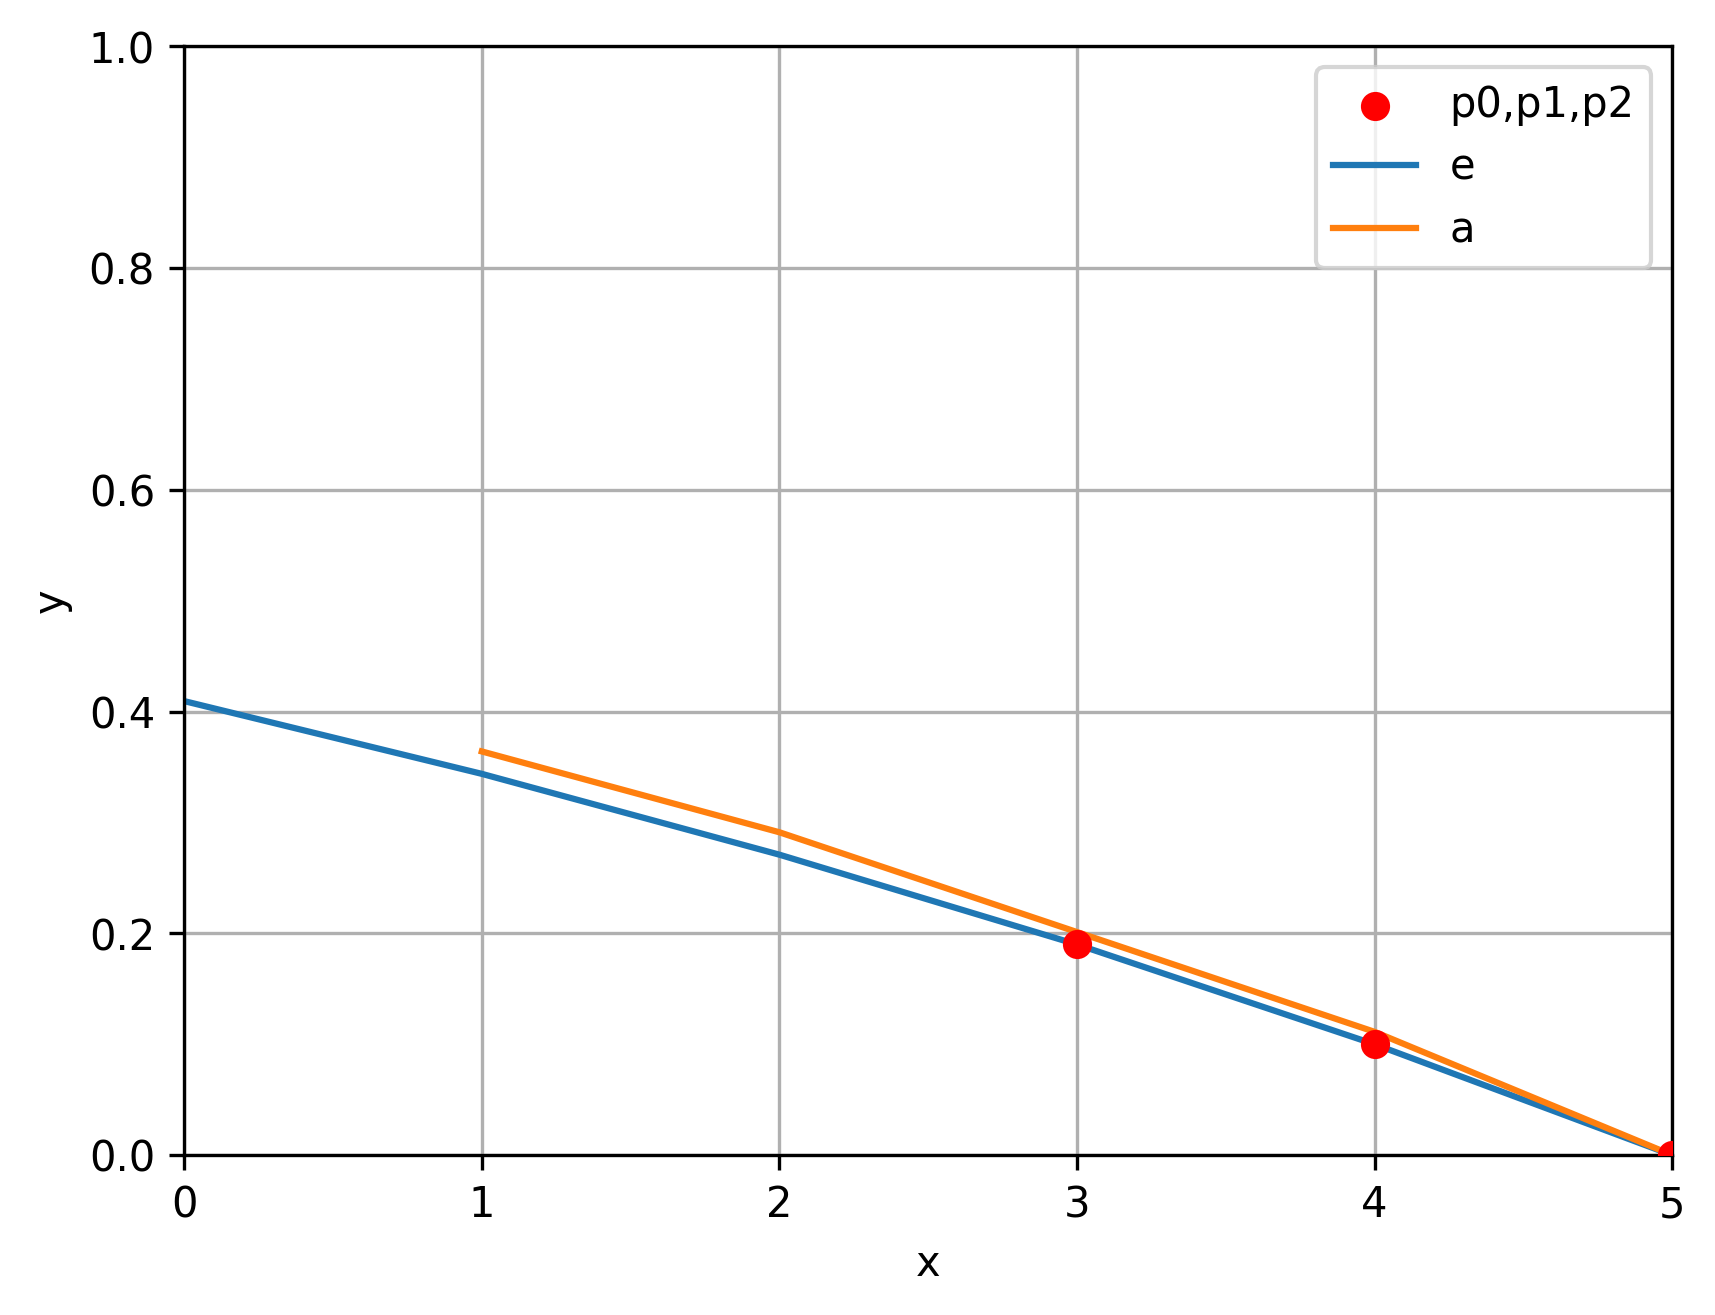
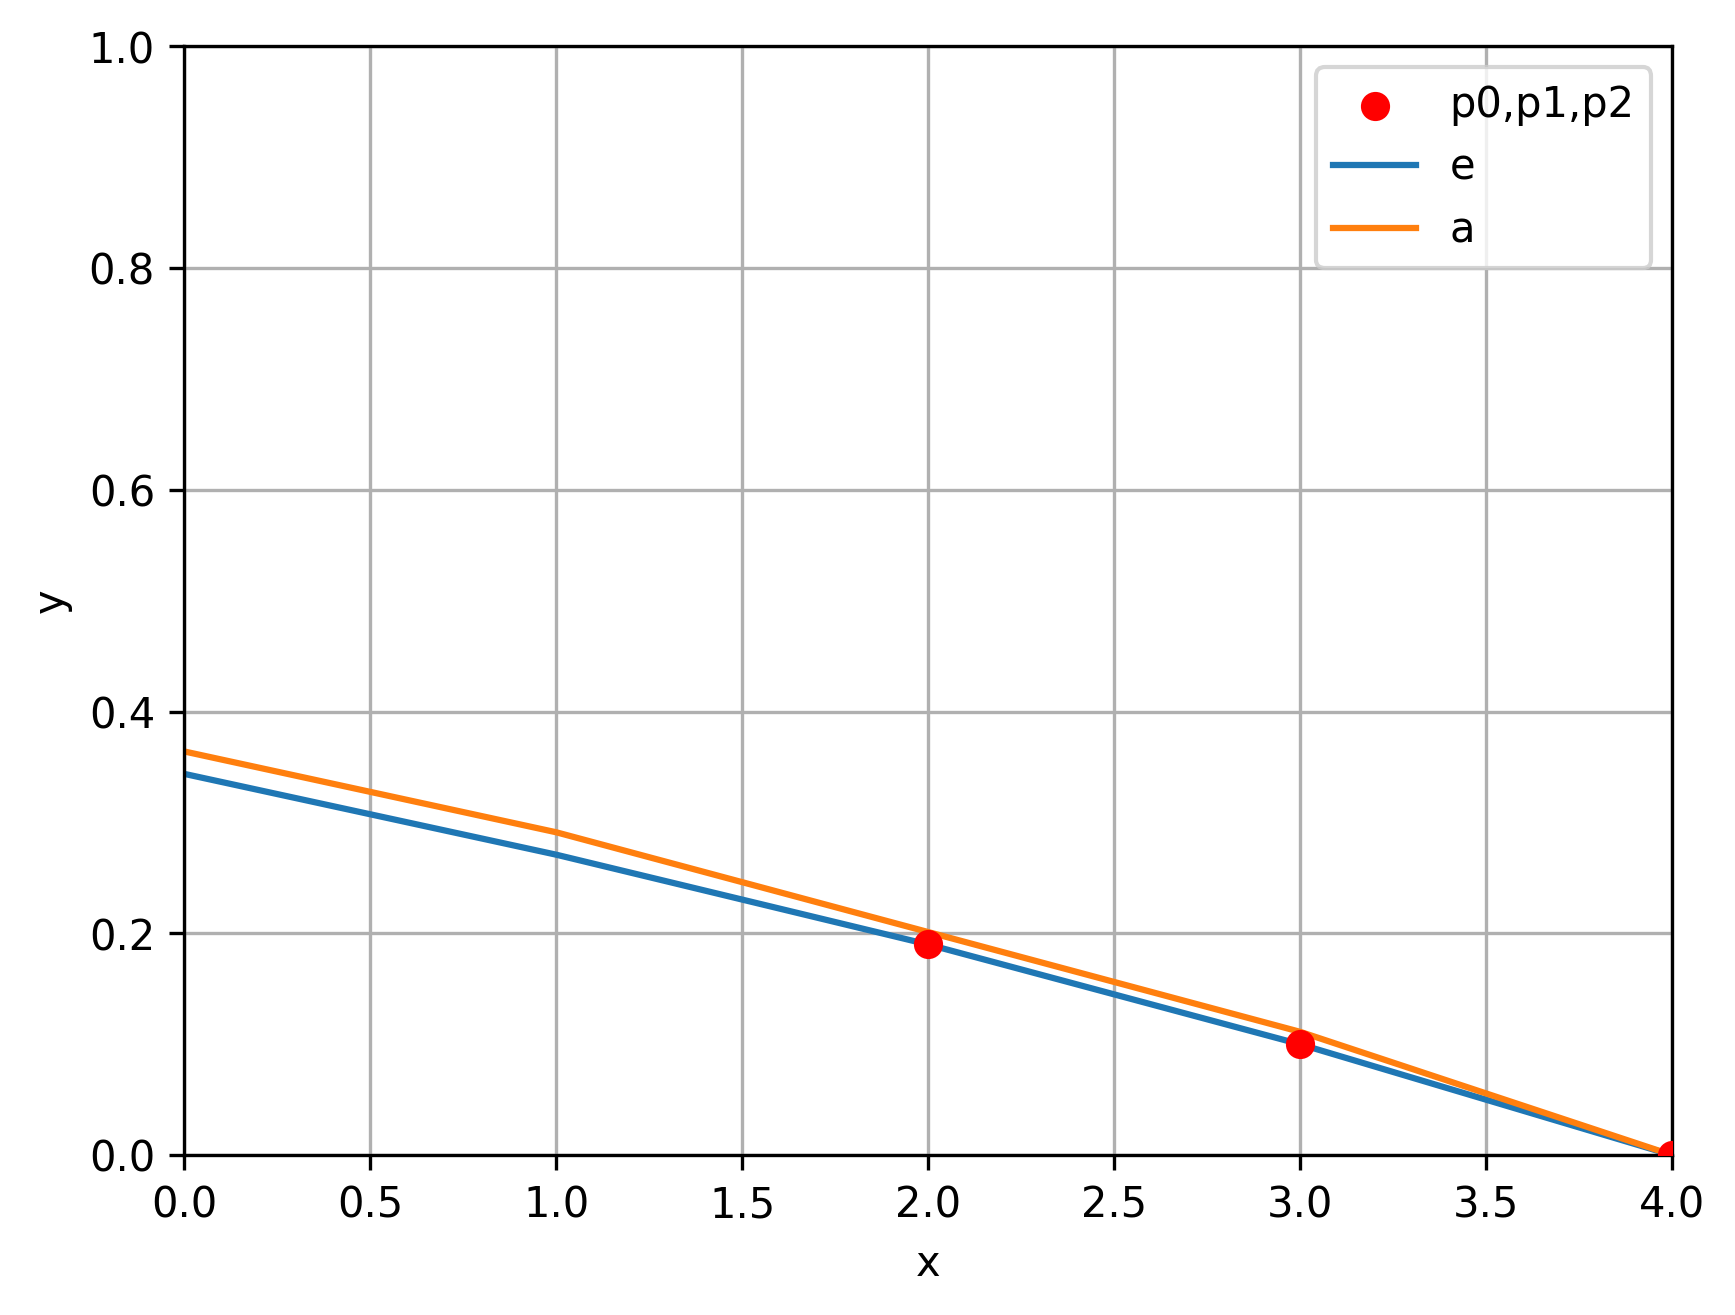
added benchmark script!

diff --git a/run_benchmarks.py b/run_benchmarks.py
@@ -1,0 +1,65 @@
+from sym_adjpdr.prism import *
+from sym_adjpdr.model import *
+from sym_adjpdr.adjpdr import *
+from sym_adjpdr.heuristics import *
+from sym_adjpdr.generalization import *
+from sym_adjpdr.exponential_generalization import *
+from pathlib import Path
+import sys
+from multiprocessing import Process
+import time
+
+TIMEOUT = 2  # seconds
+
+ctx = isl.Context()
+NO_GEN_PARTITIONS = 100
+PROPAGATE = False
+
+DEBUG = False
+TRACE = False
+# [Cs, Cb]  [Cs, CbGen, CmGen]
+HEURISTICS = [Cs, CbGen]
+# [no_generalization, linear_generalize_state_conflict, linear_generalize_state_binary, exponential_generalize_state]
+GENERALIZATIONS = [no_generalization, linear_generalize_state_conflict, linear_generalize_state_binary, exponential_generalize_state]
+
+MIN_ITERATION = int(sys.argv[1])
+iteration = 0
+BENCHMARK_FOLDER = Path("benchmarks")
+
+def run_benchmark(M: Model, do_propagate: bool, heuristics, used_heuristic, generalizations, used_generalization, 
+                   print_ : bool = True, assert_: bool = True, loop_check: bool = True):
+    result = adjointPDRdown(M,do_propagate,heuristics,used_heuristic, generalizations, used_generalization, print_, assert_, loop_check)
+    print(result[0], end=" ")
+    # Long-running work
+    # time.sleep(3)
+
+for file in sorted(BENCHMARK_FOLDER.iterdir()):
+    if file.is_file():
+        with file.open("r") as f:
+            max_prob = Fraction(f.readline().replace("//", "").replace(" ", ""))
+            model = Model.from_prism_file(ctx, str(file), max_prob, False, NO_GEN_PARTITIONS)
+            
+            for heur in HEURISTICS:
+                for gen in GENERALIZATIONS:
+                    if iteration < MIN_ITERATION:
+                        continue
+
+                    if TRACE:
+                        print("**NOW RUNNING**", str(file), float(max_prob), heur.__name__, gen.__name__, "...")
+                    
+                    p = Process(target=run_benchmark, args=(model, False,[heur], heur, [gen], gen, DEBUG, DEBUG, DEBUG))
+                    start = time.perf_counter()
+                    p.start()
+                    p.join(TIMEOUT)
+                    if p.is_alive():
+                        p.terminate()
+                        p.join()
+                        print(iteration, str(file), float(max_prob), heur.__name__, gen.__name__, "T/O")
+                    else:
+                        elapsed = time.perf_counter() - start
+                        print(iteration, str(file), float(max_prob), heur.__name__, gen.__name__, f"{elapsed:.3f}")
+                    iteration += 1
+                    
+
+    
+

diff --git a/sym_adjpdr/exponential_generalization.py b/sym_adjpdr/exponential_generalization.py
@@ -163,7 +163,7 @@ def exponential_generalize_variable(F: Frame, s: isl.Point, i: int, x_i: str, u_
     # y2 -= eval_exponential(a,b,c,u_xi)
     # print(x_i, f"({u_xi-2},{y2}) ({u_xi-1},{y1}) ({u_xi},{y0})")
 
-    print(f"{c} * ({a})^(x-{d}) + {b}")
+    # print(f"{c} * ({a})^(x-{d}) + {b}")
 
     if a.has(nan,zoo,I) or b.has(nan,zoo,I) or a < 0:
         return False, Frame.ones(isl.DEFAULT_CONTEXT, F.variables), None
@@ -182,8 +182,8 @@ def exponential_generalize_variable(F: Frame, s: isl.Point, i: int, x_i: str, u_
     
     e = Frame(F_res.pw.intersect_domain(theta), F.domain, F.variables)
 
-    fig = plot_exponential_with_pw_aff(a,b,c,d, [u_xi-2, u_xi-1, u_xi], [y2, y1, y0], e, s, i, xlim=(0,u_xi), ylim=(0,1), padding=0)
-    fig.savefig("exponential.png", dpi=300, bbox_inches="tight")
+    # fig = plot_exponential_with_pw_aff(a,b,c,d, [u_xi-2, u_xi-1, u_xi], [y2, y1, y0], e, s, i, xlim=(0,u_xi), ylim=(0,1), padding=0)
+    # fig.savefig("exponential.png", dpi=300, bbox_inches="tight")
     # print([float(F_res.eval({"c": c, "g": 0})) for c in range(u_xi+1)])
     
     # F_res_restricted = F_res.copy()

diff --git a/sym_adjpdr/adjpdr.py b/sym_adjpdr/adjpdr.py
@@ -56,7 +56,7 @@ def adjointPDRdown(M: Model, do_propagate: bool, heuristics, used_heuristic, gen
                 return True, states_so_far, heuristics_so_far
         # NEGATIVELY CONCLUSIVE
         if len(G) != 0 and G[0].is_empty():
-            print(f"After {iteration-1} iterations")
+            print(f"After {iteration-1} iterations") if print_ else None
             return False, states_so_far, heuristics_so_far
         # if Gk is not None:
         #     print("second", Phi(F[k-1], M) in Gk)

diff --git a/sym_adjpdr/generalization.py b/sym_adjpdr/generalization.py
@@ -31,7 +31,8 @@ def generalization_framework(F: Frame, G: FrameSet, z: Frame, M: Model, state_ge
     # print(f"{G} has '{debug}' as non-zero entries")
     for s in iterate_isl_set(w.pw.non_zero_set()):
         delta, F_s = state_generalization(F,G,M,z,s)
-        assert F_s.eval(s) == delta
+        # print("delta", delta, "eval", F_s.eval(s))
+        # assert F_s.eval(s) == delta
         F_res = Frame.meet(F_res, F_s)
         r_ -= w.eval(s) * delta
         if r_ < 0:

diff --git a/sym_adjpdr/linear_generalization.py b/sym_adjpdr/linear_generalization.py
@@ -9,7 +9,7 @@ def linear_generalize_state_conflict(F: Frame, _G: FrameSet, M: Model, z: Frame,
     for i, (xi, (_, u_xi)) in enumerate(F.variables.items()):
         _, F_, _ = linear_generalize_variable(F, s, delta, i, xi, u_xi, M)
         z_ = Frame.meet(z_, F_)
-    return delta, z_
+    return z_.pw.eval(s), z_
 
 N = 5
 
